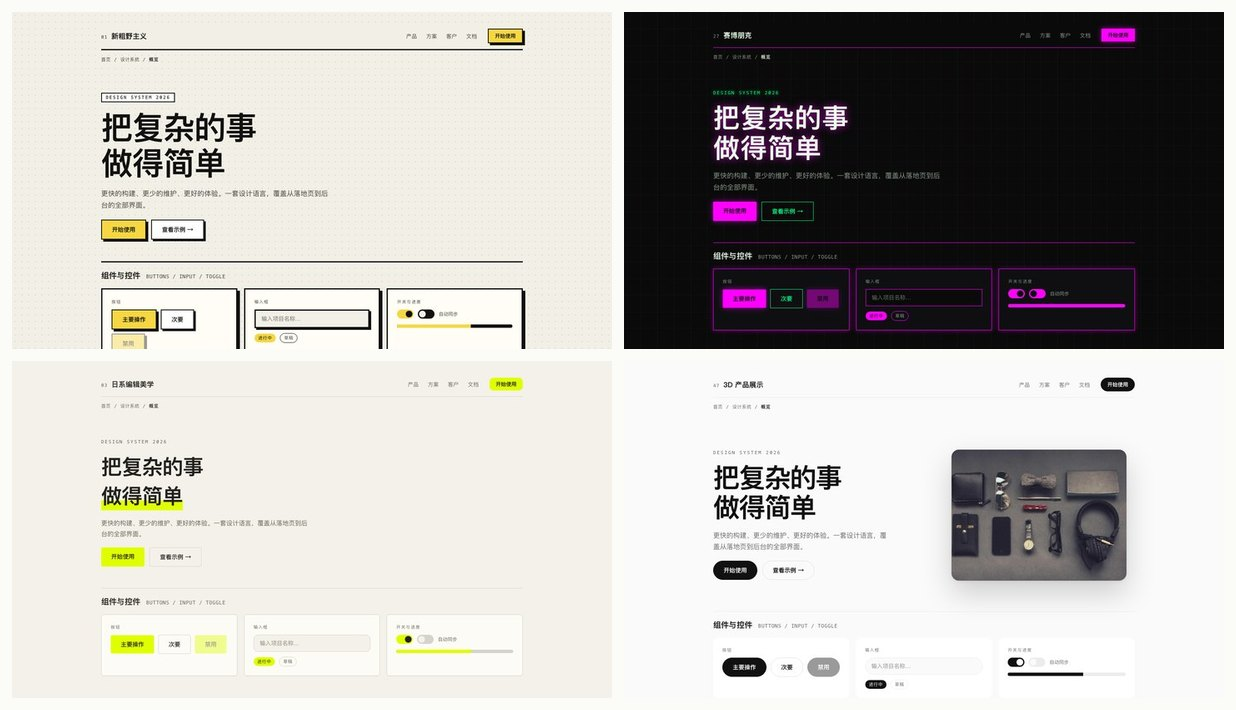
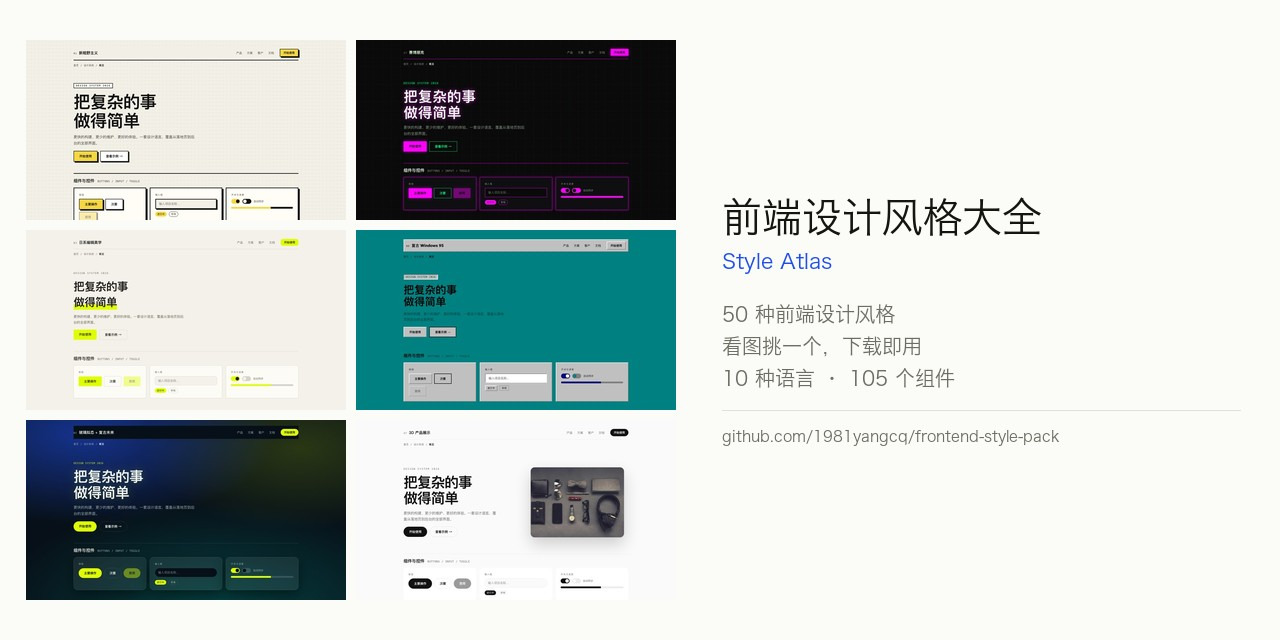
docs(readme): 增加国内镜像入口（surge）；加入社交预览图

diff --git a/build_readme.py b/build_readme.py
@@ -59,7 +59,7 @@ README = f"""<div align="center">
 {N} 种前端设计风格：每张缩略图都是真实渲染的一屏，点进去就是完整页面（落地页 + 105 个组件），
 下载一个 zip 就带走全部代码与规格。
 
-[**🌐 在线预览**]({BASE}) · [**⬇ 下载风格包**]({REL.replace('latest/download/', '')}) · [**📖 怎么给 AI 用**](specs/README.md)
+[**🌐 在线预览**]({BASE}) · [**🇨🇳 国内镜像**](https://sunsong.surge.sh) · [**⬇ 下载风格包**]({REL.replace('latest/download/', '')}) · [**📖 怎么给 AI 用**](specs/README.md)
 
 </div>
 

diff --git a/README.md b/README.md
@@ -7,7 +7,7 @@
 50 种前端设计风格：每张缩略图都是真实渲染的一屏，点进去就是完整页面（落地页 + 105 个组件），
 下载一个 zip 就带走全部代码与规格。
 
-[**🌐 在线预览**](https://1981yangcq.github.io/frontend-style-pack/) · [**⬇ 下载风格包**](https://github.com/1981yangcq/frontend-style-pack/releases/) · [**📖 怎么给 AI 用**](specs/README.md)
+[**🌐 在线预览**](https://1981yangcq.github.io/frontend-style-pack/) · [**🇨🇳 国内镜像**](https://sunsong.surge.sh) · [**⬇ 下载风格包**](https://github.com/1981yangcq/frontend-style-pack/releases/) · [**📖 怎么给 AI 用**](specs/README.md)
 
 </div>
 
